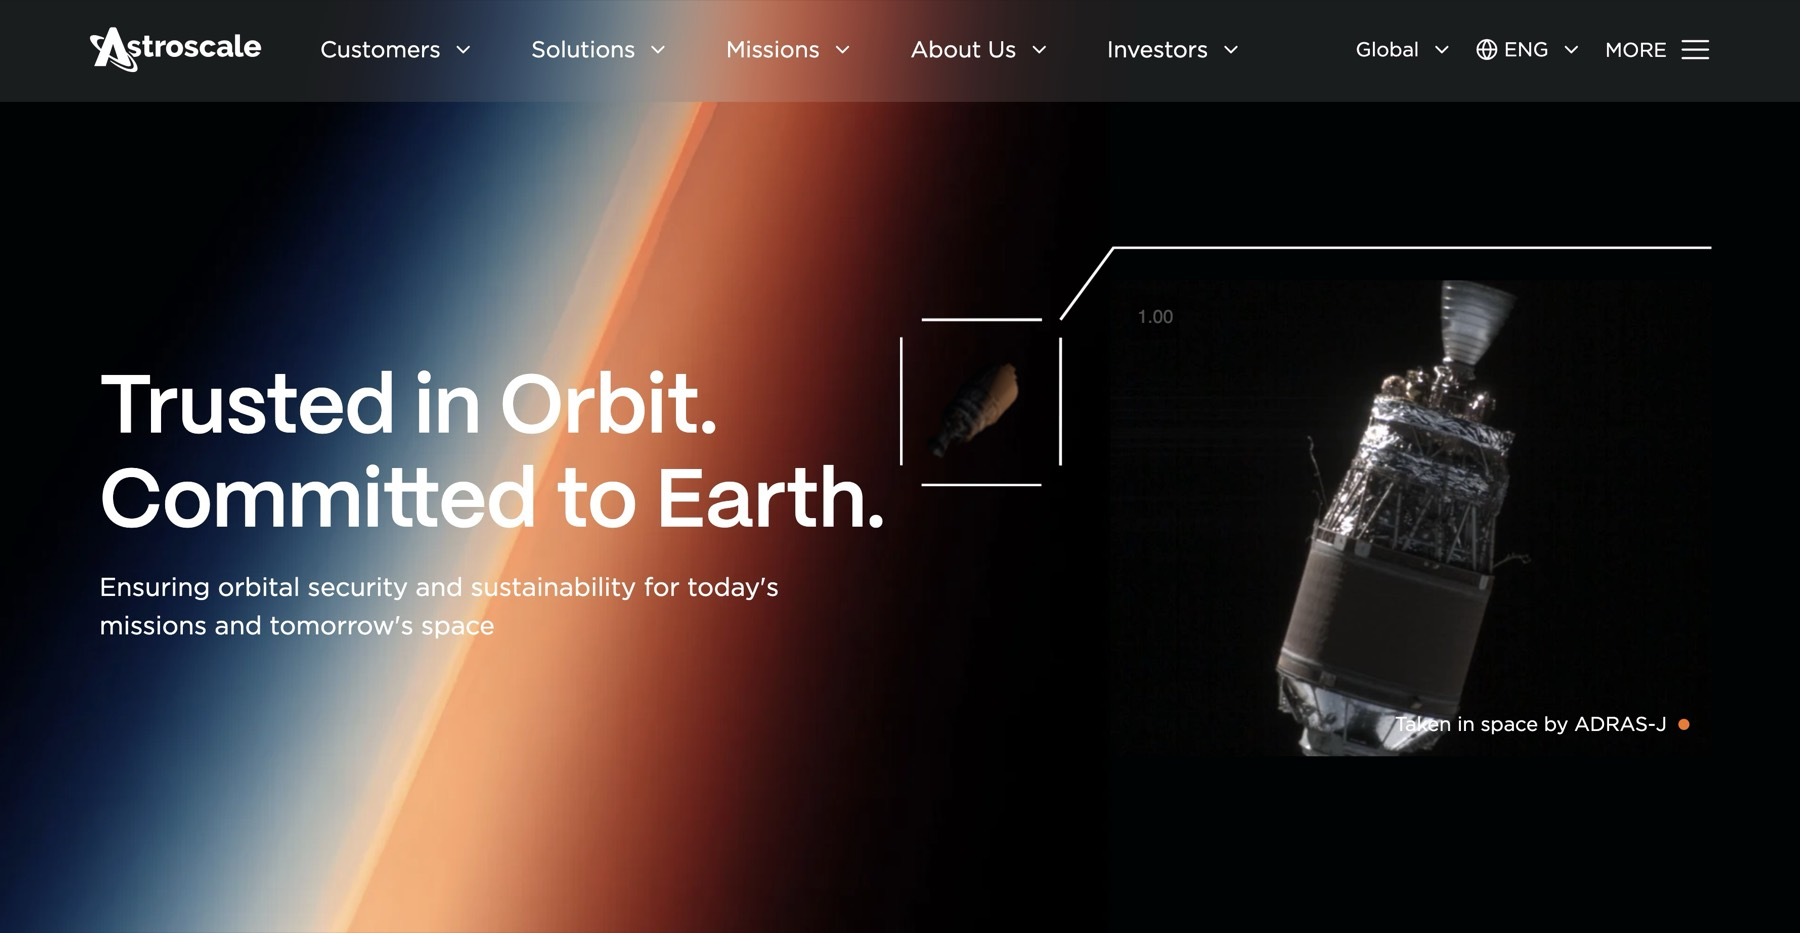
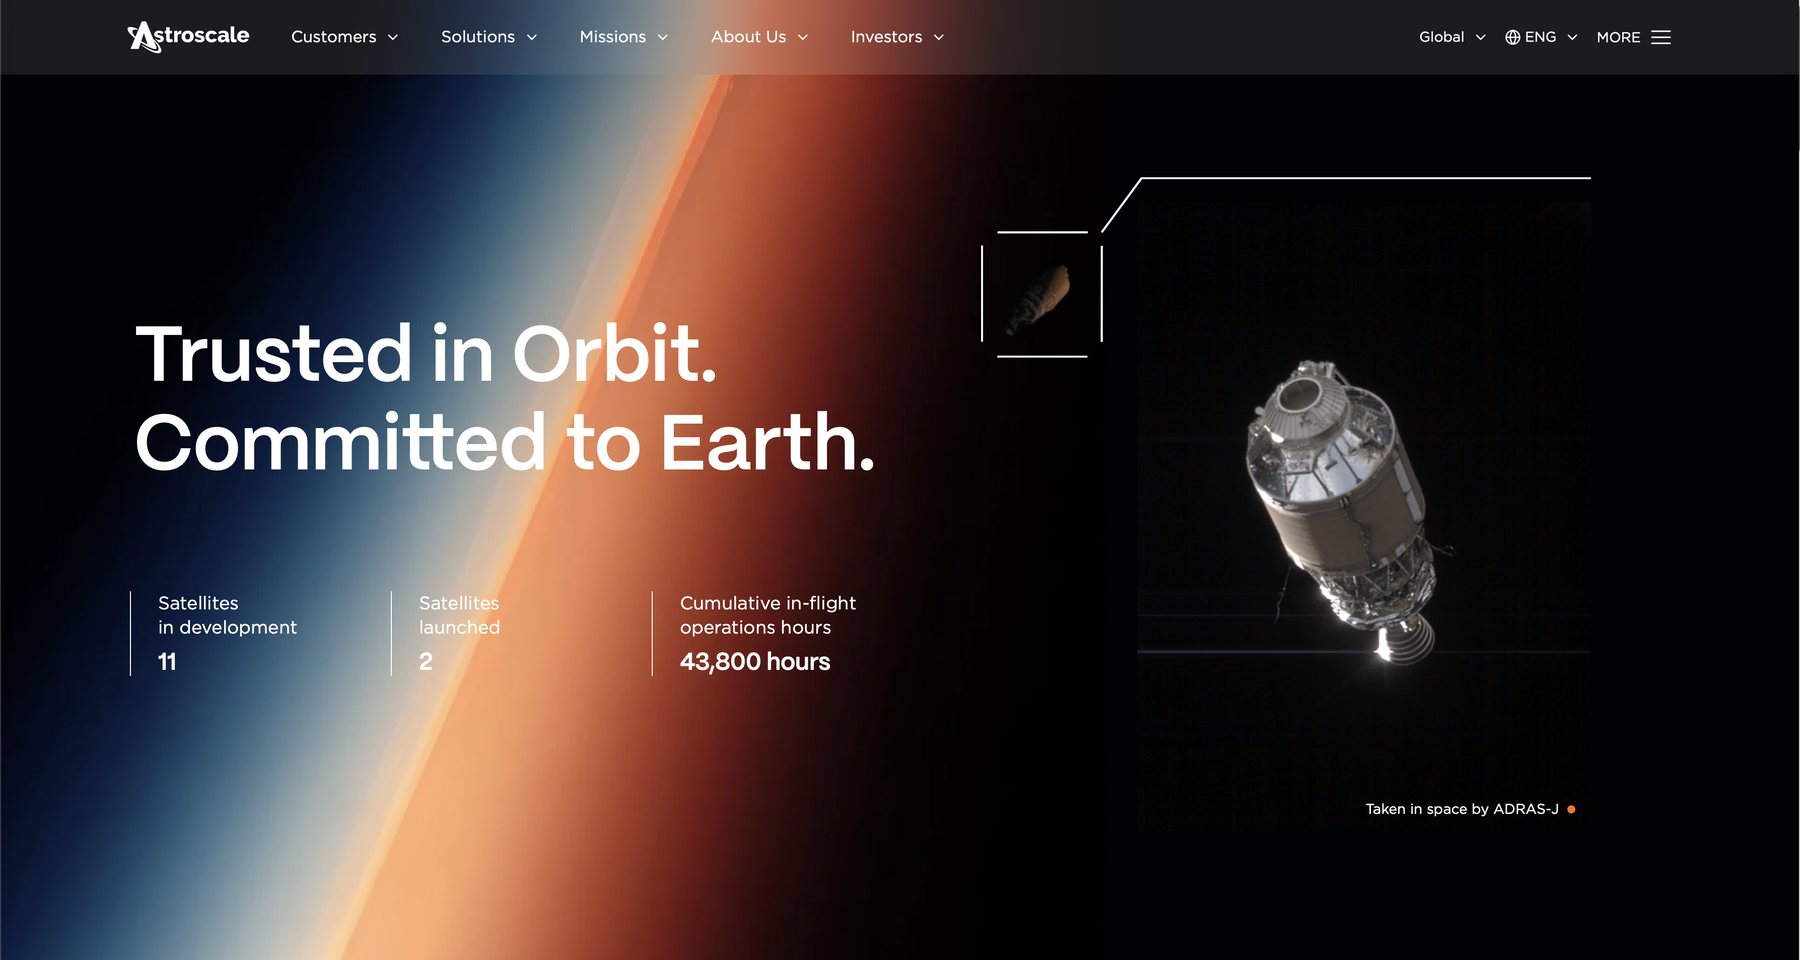
Use new Astroscale screenshot and give Everyday Dose the Matter panel treatment

diff --git a/work/index.html b/work/index.html
@@ -85,6 +85,9 @@ p,h1,h2,h3,h4,figure{margin:0}
 .case-light .case-heading{padding-top:0}
 .case-light .shot{background:#d3d9c9}
 .case-light .project-caption{border-bottom:0;padding-bottom:0}
+.case-light .case-sector{margin:-.4rem 0 1.4rem}
+.case-dose{background:#f2e6ee;color:#43303f;--line:#dcc5d4;--ink:#271a25;--dim:#6f5a69;--accent:#5a34c2}
+.case-dose .shot{background:#e8d5e1}
 .case-split{display:grid;grid-template-columns:.7fr 1.3fr;gap:3.5rem;align-items:start}
 .case-split .case-heading{display:block}
 .case-split h3{font-size:clamp(2.4rem,4.4vw,3.8rem);margin-bottom:1rem}
@@ -92,14 +95,6 @@ p,h1,h2,h3,h4,figure{margin:0}
 .case-split .role{margin-bottom:1.6rem}
 .case-split .shot{margin-top:.4rem}
 .case-split .project-caption{display:block;padding-top:1.4rem}
-.dose{grid-template-columns:1.18fr 1fr;padding-top:1.2rem;border-top:1px solid var(--line)}
-.dose .case-number{margin-top:.4rem}
-.dose .case-heading{padding:0 0 1.5rem}
-.dose .project-copy{padding-top:1.7rem}
-.dose h3{margin-bottom:1rem}
-.dose .role{margin-bottom:1rem}
-.dose .shot{margin-top:1.5rem}
-.dose .project-caption{border:0;padding:0}
 .case-detail{font-size:.81rem;color:var(--dim);padding-top:.8rem}
 .other-head{margin-top:1rem;padding:1rem 0 2rem;border-top:1px solid var(--line);display:flex;align-items:baseline;justify-content:space-between;gap:2rem}
 .other-head h2{font:500 2.3rem/1.1 var(--display);letter-spacing:-.04em;color:var(--ink)}
@@ -146,7 +141,6 @@ p,h1,h2,h3,h4,figure{margin:0}
 .case-split h3{max-width:none}
 .case-split .project-copy{max-width:none}
 .case-split .role{margin-bottom:1rem}
-.dose .project-copy{padding-top:0}
 .project-caption{gap:2rem}
 .other-grid{gap:2.5rem 1.5rem}
 .offering{gap:2rem}
@@ -178,7 +172,6 @@ p,h1,h2,h3,h4,figure{margin:0}
 .case-split .case-heading{display:block}
 .case-split{gap:.5rem}
 .case-split h3{font-size:2.4rem}
-.dose .project-copy{padding-top:.6rem}
 .case-split .role{margin-bottom:.8rem}
 .other-head{display:block}
 .other-head h2{font-size:2rem}
@@ -223,7 +216,7 @@ p,h1,h2,h3,h4,figure{margin:0}
 <nav class="project-index" aria-label="Featured project index">
 <a class="index-item" href="#astroscale">
 <div class="index-visual">
-<img src="/assets/work/astroscale.jpg" width="1800" height="933" alt="Astroscale website, project preview" loading="eager" decoding="async">
+<img src="/assets/work/astroscale.jpg" width="1800" height="960" alt="Astroscale website, project preview" loading="eager" decoding="async">
 </div>
 <div class="index-label">
 <span>Astroscale</span>
@@ -358,7 +351,7 @@ p,h1,h2,h3,h4,figure{margin:0}
 </div>
 </div>
 <a class="shot" href="https://astroscale.com/" target="_blank" rel="noopener">
-<img src="/assets/work/astroscale.jpg" width="1800" height="933" alt="Astroscale website, with the headline Trusted in Orbit. Committed to Earth." loading="lazy" decoding="async">
+<img src="/assets/work/astroscale.jpg" width="1800" height="960" alt="Astroscale website, with the headline Trusted in Orbit. Committed to Earth." loading="lazy" decoding="async">
 </a>
 <div class="project-caption">
 <div>
@@ -396,7 +389,8 @@ p,h1,h2,h3,h4,figure{margin:0}
 </div>
 </div>
 </article>
-<article class="case case-split dose" id="everyday-dose">
+<article class="case case-light case-dose" id="everyday-dose">
+<div class="case-split">
 <div>
 <div class="case-heading">
 <div>
@@ -405,13 +399,9 @@ p,h1,h2,h3,h4,figure{margin:0}
 <p class="case-sector">Recurring Engagements · 2021–2026</p>
 </div>
 </div>
-<a class="shot" href="https://everydaydose.com/" target="_blank" rel="noopener">
-<img src="/assets/work/everyday-dose.jpg" width="2000" height="947" alt="Everyday Dose website and functional coffee products" loading="lazy" decoding="async">
-</a>
-</div>
-<div class="project-copy">
 <p class="role-label">My Role</p>
 <p class="role">Brand Strategy · Content Strategy · Copywriting · Operations</p>
+<div class="project-copy">
 <p>A functional coffee brand, with work across its voice, products and day-to-day operations.</p>
 <ul>
 <li>Established brand and content guidelines with the founder and core team in Year 1.</li>
@@ -420,6 +410,13 @@ p,h1,h2,h3,h4,figure{margin:0}
 <li>Contributed to operational workflows in Years 1 and 2.</li>
 </ul>
 <a class="case-link" href="https://everydaydose.com/" target="_blank" rel="noopener">Visit Everyday Dose</a>
+</div>
+</div>
+<div>
+<a class="shot" href="https://everydaydose.com/" target="_blank" rel="noopener">
+<img src="/assets/work/everyday-dose.jpg" width="2000" height="947" alt="Everyday Dose website and functional coffee products" loading="lazy" decoding="async">
+</a>
+</div>
 </div>
 </article>
 <article class="case" id="ursa-major">
